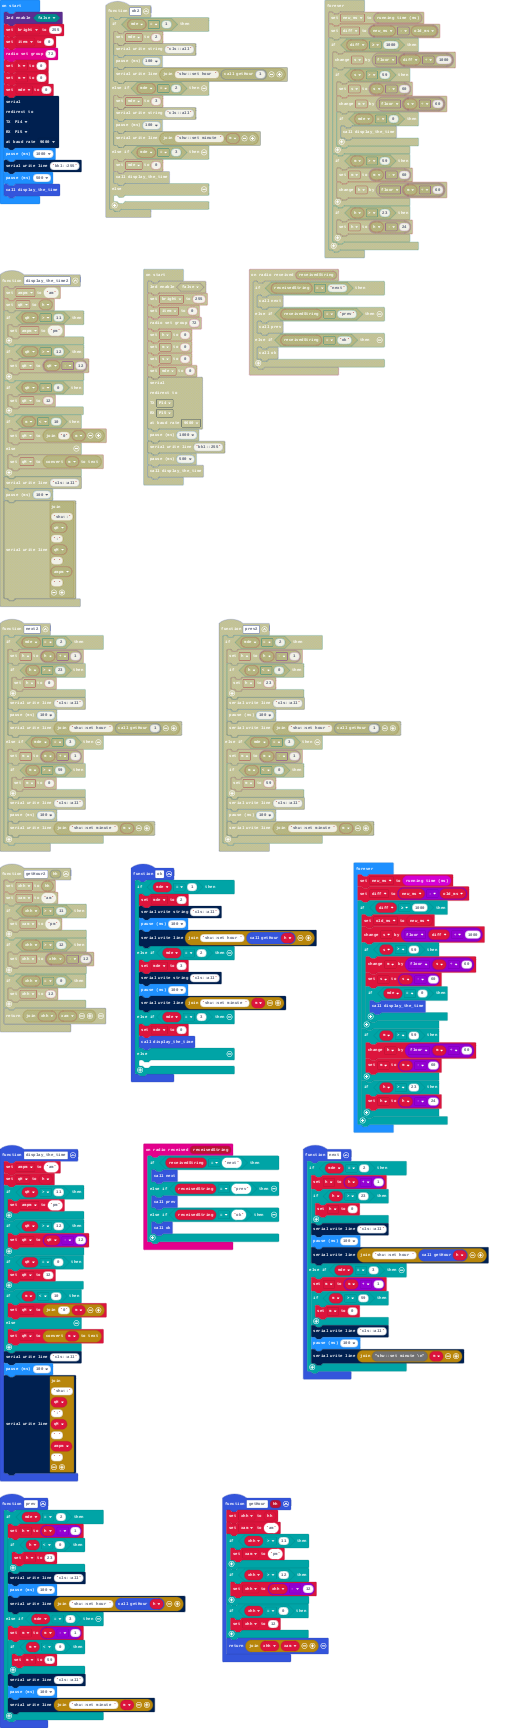
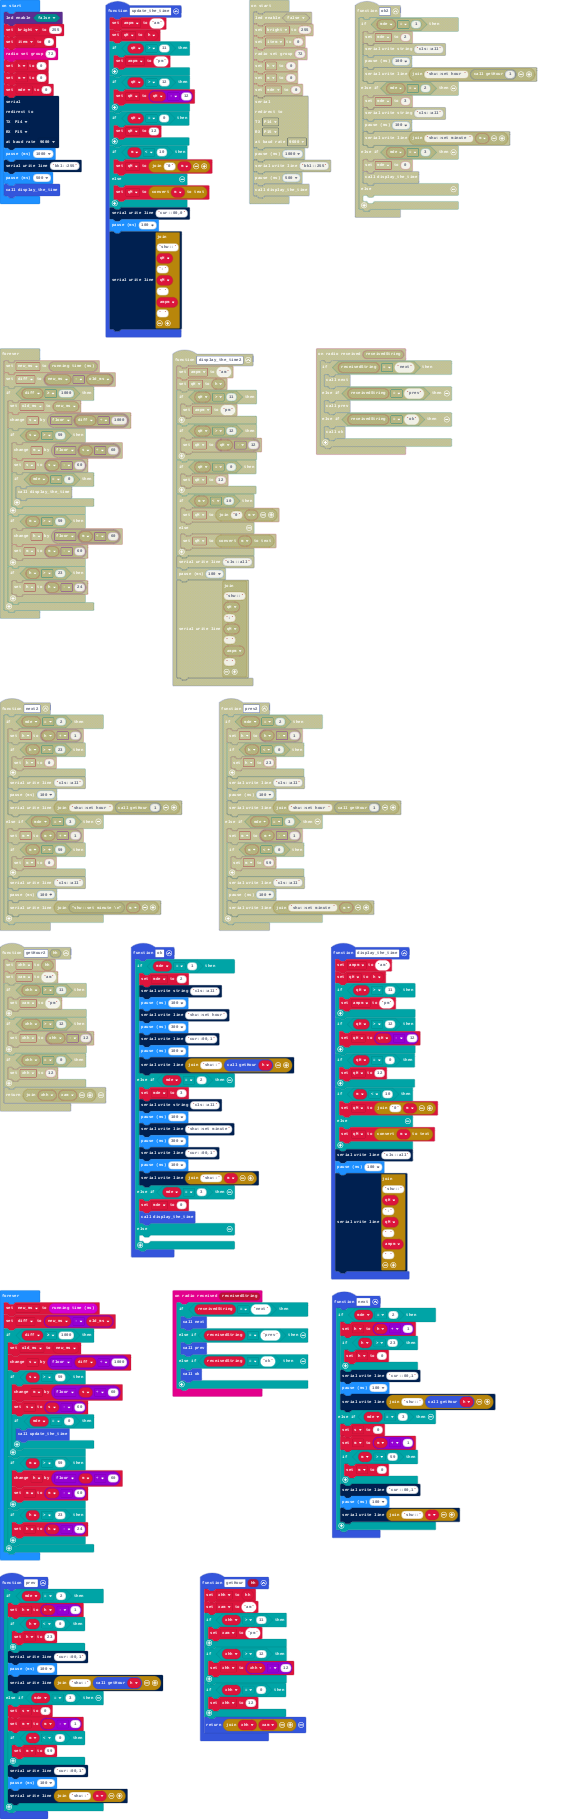
Update pxt.json, main.blocks, main.ts

diff --git a/main.ts b/main.ts
@@ -52,12 +52,20 @@ function ok () {
         mde = 2
         serial.writeString("cls::all")
         basic.pause(100)
-        serial.writeLine("shw::set hour " + getHour(h))
+        serial.writeLine("shw::set hour")
+        basic.pause(300)
+        serial.writeLine("cur::00,1")
+        basic.pause(100)
+        serial.writeLine("shw::" + getHour(h))
     } else if (mde == 2) {
         mde = 3
         serial.writeString("cls::all")
         basic.pause(100)
-        serial.writeLine("shw::set minute " + m)
+        serial.writeLine("shw::set minute")
+        basic.pause(300)
+        serial.writeLine("cur::00,1")
+        basic.pause(100)
+        serial.writeLine("shw::" + m)
     } else if (mde == 3) {
         mde = 0
         display_the_time()
@@ -80,17 +88,18 @@ function prev () {
         if (h < 0) {
             h = 23
         }
-        serial.writeLine("cls::all")
+        serial.writeLine("cur::00,1")
         basic.pause(100)
-        serial.writeLine("shw::set hour " + getHour(h))
+        serial.writeLine("shw::" + getHour(h))
     } else if (mde == 3) {
+        s = 0
         m = m - 1
         if (m < 0) {
             m = 59
         }
-        serial.writeLine("cls::all")
+        serial.writeLine("cur::00,1")
         basic.pause(100)
-        serial.writeLine("shw::set minute " + m)
+        serial.writeLine("shw::" + m)
     }
 }
 function next () {
@@ -99,23 +108,45 @@ function next () {
         if (h > 23) {
             h = 0
         }
-        serial.writeLine("cls::all")
+        serial.writeLine("cur::00,1")
         basic.pause(100)
-        serial.writeLine("shw::set hour " + getHour(h))
+        serial.writeLine("shw::" + getHour(h))
     } else if (mde == 3) {
+        s = 0
         m = m + 1
         if (m > 59) {
             m = 0
         }
-        serial.writeLine("cls::all")
+        serial.writeLine("cur::00,1")
         basic.pause(100)
-        serial.writeLine("" + "shw::set minute " + m)
+        serial.writeLine("shw::" + m)
     }
 }
-let s = 0
+function update_the_time () {
+    ampm = "am"
+    qH = h
+    if (qH > 11) {
+        ampm = "pm"
+    }
+    if (qH > 12) {
+        qH = qH - 12
+    }
+    if (qH == 0) {
+        qH = 12
+    }
+    if (m < 10) {
+        qM = "0" + m
+    } else {
+        qM = convertToText(m)
+    }
+    serial.writeLine("cur::00,0")
+    basic.pause(100)
+    serial.writeLine("shw::" + qH + ":" + qM + " " + ampm + " ")
+}
 let old_ms = 0
 let diff = 0
 let new_ms = 0
+let s = 0
 let xam = ""
 let xhh = 0
 let qM = ""
@@ -151,7 +182,7 @@ basic.forever(function () {
             m += Math.floor(s / 60)
             s = s - 60
             if (mde == 0) {
-                display_the_time()
+                update_the_time()
             }
         }
         if (m > 59) {
